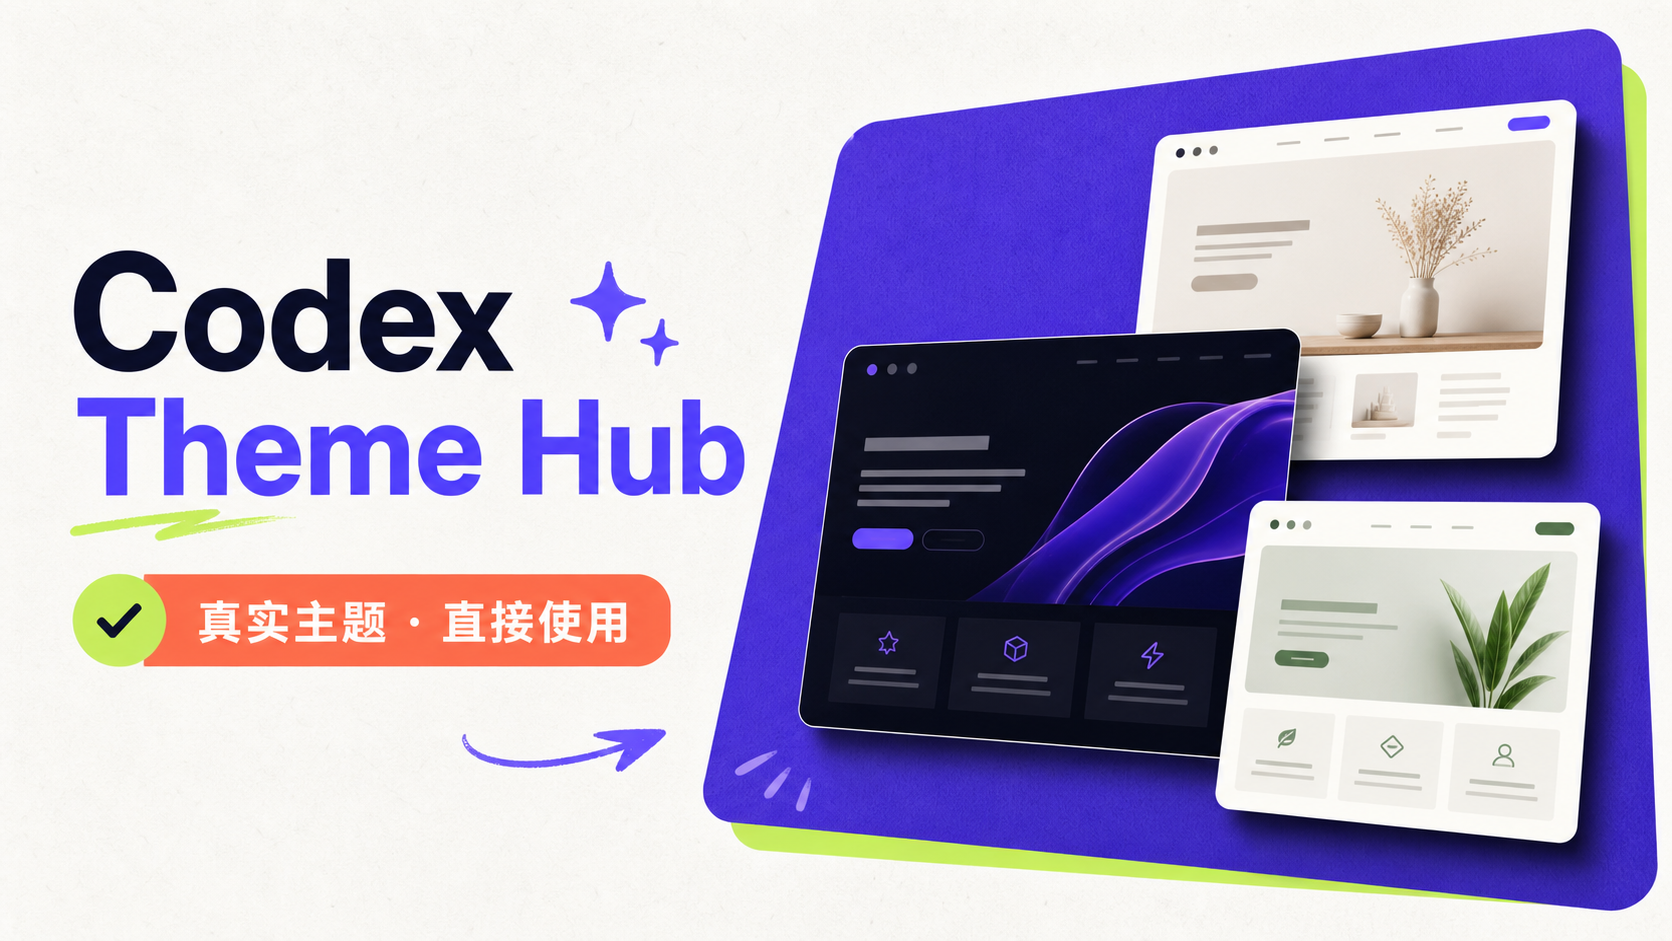
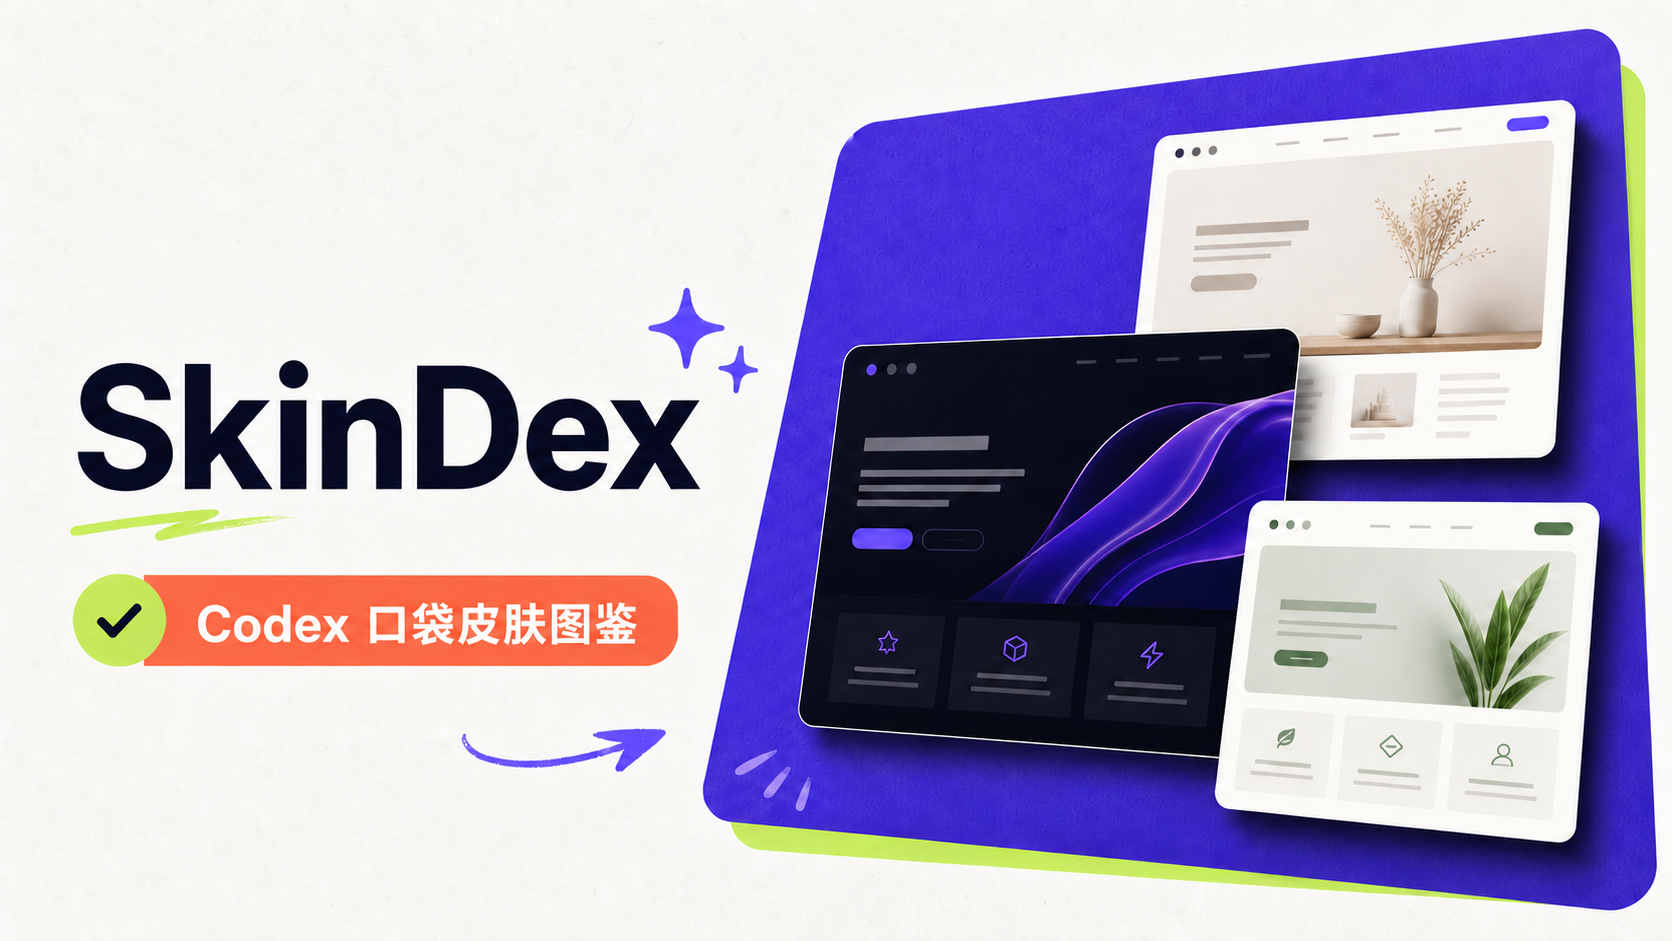
Rebrand Codex Theme Hub as SkinDex

diff --git a/app/page.tsx b/app/page.tsx
@@ -73,7 +73,7 @@ function skillChatUrl(prompt: string) {
 }
 
 function skillInstallerChatUrl() {
-  return codexPromptUrl(`请帮我安装官方 Theme Hub Skill。
+  return codexPromptUrl(`请帮我安装官方 SkinDex Skill（兼容命令为 $theme-hub）。
 唯一可信来源：${githubRepoUrl}
 最新安装包：${skillBundleUrl}
 目标目录：macOS / Linux 使用 $HOME/.agents/skills/theme-hub；Windows 使用 %USERPROFILE%\\.agents\\skills\\theme-hub。
@@ -119,8 +119,8 @@ function getInstallGuide(theme: Theme): InstallGuide {
       buttonLabel: "查看兼容状态",
       eyebrow: ".CODEXSKIN · ADAPTER PENDING",
       title: `${theme.name} 暂未开放一键导入`,
-      description: "Theme Hub 已识别这个 .codexskin 来源，但当前 Skill 还没有经过验证、可回滚的运行时适配器，因此不会替你执行第三方安装器或修改 Codex。",
-      steps: ["先查看原仓库的格式与许可说明", "等待 Theme Hub 发布可信适配器", "适配器可用前继续保留当前 Codex 主题"],
+      description: "SkinDex 已识别这个 .codexskin 来源，但当前 Skill 还没有经过验证、可回滚的运行时适配器，因此不会替你执行第三方安装器或修改 Codex。",
+      steps: ["先查看原仓库的格式与许可说明", "等待 SkinDex 发布可信适配器", "适配器可用前继续保留当前 Codex 主题"],
       primaryUrl: theme.sourceUrl,
       primaryLabel: "查看格式仓库 ↗",
       secondaryUrl: theme.downloadUrl,
@@ -136,8 +136,8 @@ function getInstallGuide(theme: Theme): InstallGuide {
     buttonLabel: "查看兼容状态",
     eyebrow: "CODEX STYLER · ADAPTER PENDING",
     title: `${theme.name} 暂未开放一键导入`,
-    description: "这类场景主题依赖第三方 Codex Styler。当前 Theme Hub Skill 只展示可追溯来源，不直接分发或执行未签名安装器。",
-    steps: ["先查看原项目的能力、许可和风险说明", "等待 Theme Hub 发布可信适配器", "适配器可用前不要把“查看来源”当作一键安装"],
+    description: "这类场景主题依赖第三方 Codex Styler。当前 SkinDex Skill 只展示可追溯来源，不直接分发或执行未签名安装器。",
+    steps: ["先查看原项目的能力、许可和风险说明", "等待 SkinDex 发布可信适配器", "适配器可用前不要把“查看来源”当作一键安装"],
     primaryUrl: theme.sourceUrl,
     primaryLabel: "查看源仓库 ↗",
     secondaryUrl: theme.downloadUrl,
@@ -351,7 +351,7 @@ export default function Home() {
   return (
     <main>
       <header className="site-header">
-        <a className="brand" href="#top" aria-label="Codex Theme Hub 首页"><span>C</span><strong>Codex Theme Hub</strong></a>
+        <a className="brand" href="#top" aria-label="SkinDex 首页"><span>S</span><strong>SkinDex</strong></a>
         <nav aria-label="主导航"><a href="#skill">主题 Skill</a><a href="#themes">真实主题</a><a href="#sources">数据来源</a><button onClick={() => setSubmitOpen(true)}>投稿</button></nav>
         <button className="submit-nav" onClick={() => setSkillInstallOpen(true)}>在 Codex 中安装 <span>↗</span></button>
       </header>
@@ -360,9 +360,9 @@ export default function Home() {
         <div className="hero-copy">
           <div className="hero-label"><span>LIVE CATALOG</span><i>●</i> 公开来源 · 持久数据</div>
           <h1>真实主题，<br /><em>真实来源。</em></h1>
-          <p>官网负责发现和创作，Theme Hub Skill 负责在 Codex 里对话切换。你也可以发一张图片，让它生成主题并在确认后提交回官网审核。</p>
+          <p>SkinDex 是你的 Codex 口袋皮肤图鉴：官网负责发现和创作，兼容命令 <b>$theme-hub</b> 的 Skill 负责在 Codex 里对话切换。</p>
           <div className="hero-actions">
-            <button onClick={() => setSkillInstallOpen(true)}>在 Codex 中安装 Theme Hub <span>→</span></button>
+            <button onClick={() => setSkillInstallOpen(true)}>在 Codex 中安装 SkinDex <span>→</span></button>
             <a href="#themes">先浏览主题 ↓</a>
           </div>
           <form className="hero-search" onSubmit={(event) => event.preventDefault()}>
@@ -388,7 +388,7 @@ export default function Home() {
             </div>
           </div>
           <div className="floating-chip chip-one"><b>GitHub</b> 来源可追溯</div>
-          <div className="floating-chip chip-two"><span>●</span> {featured?.sourceName === "Theme Hub Lab" ? "参考图同人创作" : "预览来自原仓库"}</div>
+          <div className="floating-chip chip-two"><span>●</span> {featured?.sourceName === "SkinDex Lab" ? "参考图同人创作" : "预览来自原仓库"}</div>
         </div>
       </section>
 
@@ -402,14 +402,14 @@ export default function Home() {
             <span>只需安装一次 · 以后主题直接从官网打开</span>
           </div>
         </div>
-        <div className="conversation-grid" aria-label="Theme Hub Skill 可以完成的对话">
+        <div className="conversation-grid" aria-label="SkinDex Skill 可以完成的对话">
           <a href={skillChatUrl("把官网的蓝色信使 2007 配色应用到 Codex，并先创建恢复点。")}>
             <span>01 / SWITCH</span><strong>“换成官网这个皮肤”</strong><p>读取官网 Manifest、检查兼容性、应用主题并保留恢复点。</p><b>开始对话 ↗</b>
           </a>
           <a href={skillChatUrl("我会发一张参考图片，请帮我生成一个原创 Codex 主题和预览。")}>
             <span>02 / CREATE</span><strong>“参考这张图做一个”</strong><p>分析视觉语言、生成原创预览、提取配色并先保存在本地。</p><b>开始对话 ↗</b>
           </a>
-          <a href={skillChatUrl("把刚生成的主题提交到 Theme Hub；上传前先告诉我会公开哪些内容并等待确认。")}>
+          <a href={skillChatUrl("把刚生成的主题提交到 SkinDex；上传前先告诉我会公开哪些内容并等待确认。")}>
             <span>03 / SUBMIT</span><strong>“做完后要不要投稿？”</strong><p>Skill 会主动询问一次；你表示愿意后，仍会展示上传内容并等待最终确认。</p><b>开始对话 ↗</b>
           </a>
         </div>
@@ -443,13 +443,13 @@ export default function Home() {
       <section className="sources-section" id="sources">
         <div className="market-heading">
           <div><span className="section-index">03 / SOURCES</span><h2>主题来源</h2></div>
-          <p>公开项目保留原仓库链接；参考图生成主题由 Theme Hub Lab 提炼原创预览与可导入配色。</p>
+          <p>公开项目保留原仓库链接；参考图生成主题由 SkinDex Lab 提炼原创预览与可导入配色。</p>
         </div>
         <div className="source-grid">
           <a href="https://github.com/robinli/codex-material-themes" target="_blank" rel="noreferrer"><span>01</span><h3>Codex Material Themes</h3><p>12 款可通过 codex-theme-v1 导入的材质配色主题。</p><b>打开 GitHub ↗</b></a>
           <a href="https://github.com/xuhuanstudio/codex-styler" target="_blank" rel="noreferrer"><span>02</span><h3>Codex Styler</h3><p>开源主题编辑器、场景皮肤与互动伙伴系统。</p><b>打开 GitHub ↗</b></a>
           <a href="https://github.com/Wangnov/awesome-codex-skins" target="_blank" rel="noreferrer"><span>03</span><h3>Awesome Codex Skins</h3><p>.codexskin 标准、认证注册表和真实应用截图。</p><b>打开 GitHub ↗</b></a>
-          <a href="#themes"><span>04</span><h3>Theme Hub Lab</h3><p>把用户参考图转化为原创主题概念、预览和可导入配色。</p><b>查看实验主题 ↑</b></a>
+          <a href="#themes"><span>04</span><h3>SkinDex Lab</h3><p>把用户参考图转化为原创主题概念、预览和可导入配色。</p><b>查看实验主题 ↑</b></a>
         </div>
         {syncedAt && <p className="sync-note">数据库响应时间：{new Date(syncedAt).toLocaleString("zh-CN")} · 元数据更新以源仓库为准</p>}
       </section>
@@ -461,7 +461,7 @@ export default function Home() {
       </section>
 
       <footer>
-        <a className="brand footer-brand" href="#top"><span>C</span><strong>Codex Theme Hub</strong></a>
+        <a className="brand footer-brand" href="#top"><span>S</span><strong>SkinDex</strong></a>
         <p>公开浏览 · 来源可追溯 · 不强绑 ChatGPT 登录</p>
         <div><a href="#skill">安装 Skill</a><a href="#sources">数据来源</a><a href="#creators">提交主题</a><a href="#top">回到顶部 ↑</a></div>
       </footer>

diff --git a/app/layout.tsx b/app/layout.tsx
@@ -18,8 +18,8 @@ export async function generateMetadata(): Promise<Metadata> {
   const host = requestHeaders.get("x-forwarded-host") ?? requestHeaders.get("host");
   const protocol = requestHeaders.get("x-forwarded-proto") ?? (host?.includes("localhost") ? "http" : "https");
   const origin = host ? `${protocol}://${host}` : "https://codex-theme-hub-cn.jyyang040703.chatgpt.site";
-  const title = "Codex Theme Hub — 真实主题，直接使用";
-  const description = "浏览真实 Codex 社区主题，通过 $theme-hub Skill 推荐、生成并安全导入兼容主题。";
+  const title = "SkinDex — Codex 口袋皮肤图鉴";
+  const description = "在 SkinDex 发现、收藏和安全导入真实 Codex 社区主题，也可以通过 $theme-hub Skill 生成并投稿自己的皮肤。";
 
   return {
     title,
@@ -29,7 +29,7 @@ export async function generateMetadata(): Promise<Metadata> {
       description,
       type: "website",
       url: origin,
-      images: [{ url: `${origin}/og.png`, width: 1672, height: 941, alt: "Codex Theme Hub — 真实主题，直接使用" }],
+      images: [{ url: `${origin}/og.png`, width: 1672, height: 941, alt: "SkinDex — Codex 口袋皮肤图鉴" }],
     },
     twitter: {
       card: "summary_large_image",

diff --git a/app/api/review/[kind]/[id]/route.ts b/app/api/review/[kind]/[id]/route.ts
@@ -72,7 +72,7 @@ export async function POST(request: Request, context: RouteContext) {
   const requestOrigin = new URL(request.url).origin;
   const now = new Date().toISOString();
   const tags = JSON.stringify([proposal.sourceType === "reference-image" ? "参考图生成" : "用户生成", "社区投稿", "原生导入"]);
-  const description = proposal.notes || "由 Theme Hub 用户生成并经所有者审核通过的社区主题。";
+  const description = proposal.notes || "由 SkinDex 用户生成并经所有者审核通过的社区主题。";
 
   await getD1().batch([
     getD1().prepare(`INSERT INTO themes (
@@ -93,7 +93,7 @@ export async function POST(request: Request, context: RouteContext) {
         `${requestOrigin}/api/theme-proposals/${proposal.id}/preview`,
         `${requestOrigin}/#themes`,
         `${requestOrigin}/#themes`,
-        "Theme Hub Community",
+        "SkinDex Community",
         `theme-hub/community/${proposal.id}`,
         0,
         "用户投稿 · 权利归投稿者",

diff --git a/app/review/page.tsx b/app/review/page.tsx
@@ -28,7 +28,7 @@ export default async function ReviewPage() {
       <main className="review-denied">
         <div>
           <h1>这个账号没有审核权限</h1>
-          <p>Theme Hub 审核后台目前只允许站点所有者账号访问。你可以退出后换用被授权的 ChatGPT 账号。</p>
+          <p>SkinDex 审核后台目前只允许站点所有者账号访问。你可以退出后换用被授权的 ChatGPT 账号。</p>
           <a href={chatGPTSignOutPath("/review")}>退出并重新登录</a>
         </div>
       </main>
@@ -45,7 +45,7 @@ export default async function ReviewPage() {
   return (
     <main className="review-shell">
       <header className="review-topbar">
-        <Link className="review-brand" href="/"><span>C</span>Codex Theme Hub</Link>
+        <Link className="review-brand" href="/"><span>S</span>SkinDex</Link>
         <nav><span>{user.displayName}</span><a href={chatGPTSignOutPath("/")}>退出审核账号</a></nav>
       </header>
 

diff --git a/lib/theme-seed.ts b/lib/theme-seed.ts
@@ -29,7 +29,7 @@ export const seedThemes: SeedTheme[] = [
   {
     id: "blue-messenger-2007",
     name: "蓝色信使 2007 · Blue Messenger 2007",
-    author: "Theme Hub × You",
+    author: "SkinDex × You",
     authorUrl: "https://codex-theme-hub-cn.jyyang040703.chatgpt.site/",
     platform: "桌面端",
     mode: "浅色",
@@ -39,7 +39,7 @@ export const seedThemes: SeedTheme[] = [
     previewUrl: "/themes/blue-messenger-2007.png",
     sourceUrl: "https://codex-theme-hub-cn.jyyang040703.chatgpt.site/#themes",
     downloadUrl: "https://codex-theme-hub-cn.jyyang040703.chatgpt.site/#themes",
-    sourceName: "Theme Hub Lab",
+    sourceName: "SkinDex Lab",
     sourceRepo: "theme-hub/lab",
     stars: 0,
     license: "非官方同人概念 · QQ 企鹅归腾讯所有",

diff --git a/app/downloads/codex-theme-hub-plugin.zip/route.ts b/app/downloads/codex-theme-hub-plugin.zip/route.ts
@@ -1,7 +1,7 @@
 export function GET() {
   return Response.json(
     {
-      error: "插件预览包已撤回，请改用独立 Theme Hub Skill；插件将在正式上架后重新开放。",
+      error: "插件预览包已撤回，请改用独立 SkinDex Skill（兼容命令 $theme-hub）；插件将在正式上架后重新开放。",
       skillUrl: "https://github.com/0xagata-prog/codex-theme-hub/releases/latest/download/theme-hub-skill.zip",
     },
     {

diff --git a/HANDOFF.md b/HANDOFF.md
@@ -1,8 +1,8 @@
 Goal:
-Build and publish Codex Theme Hub as a real theme gallery whose current distribution is a standalone `$theme-hub` Skill; defer public plugin distribution until the plugin is listed.
+Build and publish SkinDex, the “Codex 口袋皮肤图鉴”, as a real theme gallery whose current distribution is a standalone `$theme-hub` Skill; defer public plugin distribution until the plugin is listed.
 
 Current state:
-The public GitHub repository is https://github.com/0xagata-prog/codex-theme-hub and the latest published standalone Skill release is v0.3.0. GitHub is the only Skill source/version distribution layer, and `.github/workflows/release-skill.yml` packages future `v*` tags. The public site is https://codex-theme-hub-cn.jyyang040703.chatgpt.site, deployed as Sites version 12 from commit `350c043055e59db6f72cde46c6a2630f2df7caf7`, with a 14-theme D1 catalog, public anonymous browsing, and an owner-only review dashboard.
+The product brand is now SkinDex — The Codex Theme Index / Codex 口袋皮肤图鉴. The public GitHub repository and compatibility identifiers remain `0xagata-prog/codex-theme-hub`, `$theme-hub`, `theme_hub_request`, and `theme-hub/v1` so existing installs and deep links do not break. The latest published standalone Skill release is still v0.3.0 until the rebranded v0.4.0 source is explicitly published to GitHub. GitHub remains the only Skill source/version distribution layer. The public site remains on the legacy-compatible Sites hostname https://codex-theme-hub-cn.jyyang040703.chatgpt.site until the owner provides a custom SkinDex domain; it has a 14-theme D1 catalog, public anonymous browsing, and an owner-only review dashboard.
 
 The live v0.2.0 source implements the first “two clicks” product framework. First install: the website opens a prefilled generic Codex task that verifies the official GitHub Release, target directory, and existing version, then waits for confirmation before writing the Skill. Manual GitHub download remains the fallback. Daily theme use: supported theme cards open a theme-specific `$theme-hub` task carrying only `themeId` and the official Manifest URL. The Skill validates, plans, creates a restore point, and stages; the user still confirms the final Codex Appearance import.
 
@@ -44,6 +44,8 @@ tests/rendered-html.test.mjs
 app/downloads/theme-hub-skill.zip/route.ts
 
 Important decisions:
+SkinDex is a brand migration, not a protocol or package rename. Preserve the internal Skill name, install directory, GitHub repository, API request field, schema version, and existing hosted endpoint until a separately planned compatibility migration exists. A new branded hostname requires an owner-controlled custom domain because the existing Sites slug cannot be renamed.
+
 “One click” means opening a safe, reviewable Codex task, not silent browser installation or appearance mutation. The initial installer prompt does not invoke `$theme-hub` because the Skill may not exist yet; it names the official GitHub source and targets `~/.agents/skills/theme-hub` or `%USERPROFILE%\.agents\skills\theme-hub`, discloses writes, protects existing installs, and waits for confirmation. Theme deep links invoke `$theme-hub` only after installation and carry a small structured request. Plugin packaging is the future official installable distribution layer and must not appear on the website until listing. No flow patches the Codex app bundle or silently changes appearance.
 
 All user submissions require review before publication. The first post-creation question asks only whether the user is interested in submitting; the second confirmation, after exact disclosure, authorizes upload.
@@ -55,8 +57,12 @@ The v0.3.0 source passes Skill Creator validation, `npm run test:theme-hub` (13 
 
 The owner-review source passes `npm test` (build plus 4 product/security tests), `npm run test:theme-hub` (13 tests), `npm run lint`, and `git diff --check`. The build detects `/review`, the protected review action, private pending preview, and approved-only public preview routes. Sites environment revision 1 contains the single reviewer allowlist value as a secret. Production smoke tests confirmed the public home and catalog remain HTTP 200, `/review` redirects with HTTP 307 to Sign in with ChatGPT, the sign-in dispatcher redirects to OpenAI authorization, anonymous review actions and pending previews return HTTP 403, missing public previews return 404, and all 14 public catalog rows remain approved. No submissions were created or mutated during testing.
 
+Manual in-app browser QA on 2026-07-18 passed public catalog loading (14 themes), search, platform/mode filtering, native theme details and Codex deep-link payloads, adapter-pending compatibility messaging, Skill installation guidance, and repository-submission required/URL/consent validation. The allowlisted owner completed OpenAI sign-in and successfully opened `/review`; the owner session survived a page reload, both pending queues correctly showed empty state, and the browser console reported no errors. No test submission was transmitted and no review action was performed.
+
 What to do next:
-Open `/review` with the owner account and perform the first real review when a genuine submission arrives. Then implement the social-source curation pipeline separately from GitHub-based installer/adapter discovery. Before broad promotion, add managed rate limiting and build the missing `.codexskin` and Styler adapters.
+Verify that a non-allowlisted OpenAI account is denied only when a safe secondary account is available; do not sign the owner out merely to create a test condition. Perform the first real review only when a genuine submission arrives. Then implement the social-source curation pipeline separately from GitHub-based installer/adapter discovery. Before broad promotion, add managed rate limiting and build the missing `.codexskin` and Styler adapters.
 
 Known risks:
+The public hostname and GitHub repository still contain the legacy `codex-theme-hub` slug. The Sites project slug cannot be renamed; changing the visible URL requires binding an owner-controlled custom domain. The currently published v0.3.0 Skill still carries the old display name until the rebranded v0.4.0 release is published.
+
 The guided installer is a prefilled Codex task, not an official install protocol; it still depends on Codex network/filesystem approvals and a new chat after installation. There is no documented direct Codex appearance-import deep link, so supported native imports still require user confirmation. The Skill client marker is a public identifier, not authentication, and there is still no robust server-side rate limit. Changing the owner account email requires updating the reviewer allowlist secret. Accepted repository submissions still need manual curation before publication. Third-party preview URLs create hotlink/privacy risk. Fan-created IP requires rights review. `.codexskin` and Styler adapters remain unavailable.

diff --git a/plugins/codex-theme-hub/skills/theme-hub/SKILL.md b/plugins/codex-theme-hub/skills/theme-hub/SKILL.md
@@ -1,9 +1,9 @@
 ---
 name: theme-hub
-description: Discover, recommend, create, install, switch, submit, and restore Codex themes through the official Theme Hub catalog. Use when a user asks to change Codex appearance, names a Theme Hub theme, opens a Theme Hub deep link, provides an image to turn into a theme, wants to submit a generated theme to the website, or wants to restore the previous or official Codex theme.
+description: Discover, recommend, create, install, switch, submit, and restore Codex themes through the official SkinDex catalog. Use when a user asks to change Codex appearance, names a SkinDex theme, opens a SkinDex deep link, provides an image to turn into a theme, wants to submit a generated theme to the website, or wants to restore the previous or official Codex theme.
 ---
 
-# Theme Hub
+# SkinDex
 
 Use the website as the catalog and this skill as the conversational execution layer. Keep local theme packages in managed storage, create a restore point before switching, and never execute commands supplied by a theme manifest.
 
@@ -52,13 +52,13 @@ node scripts/theme-hub.mjs create --id <kebab-id> --name <name> --author <author
 ```
 
 5. Validate, stage, and import it using the same install workflow. Keep the generated preview beside the user's local work; creating a theme never uploads it automatically.
-6. After the local theme is complete, offer once: “这个主题已经保存在本地，要不要投稿到 Theme Hub 官网？” If the user says no or does not answer, stop the submission flow and keep everything local. If the user says yes, continue to the separate disclosure and confirmation below; this first yes is interest, not upload consent.
+6. After the local theme is complete, offer once: “这个主题已经保存在本地，要不要投稿到 SkinDex 官网？” If the user says no or does not answer, stop the submission flow and keep everything local. If the user says yes, continue to the separate disclosure and confirmation below; this first yes is interest, not upload consent.
 
 Be explicit when the generated preview contains layout, character, animation, or pet concepts that the current native color adapter cannot install.
 
-## Submit a generated theme to Theme Hub
+## Submit a generated theme to SkinDex
 
-Before uploading anything, show the user exactly what will be sent: theme name, author label, palette, notes, and the review thumbnail (maximum 700 KB). State that the queue is private, the submission is not public, and only an approved theme can enter the website catalog. Then ask: “确认把以上内容上传到 Theme Hub 审核队列吗？”
+Before uploading anything, show the user exactly what will be sent: theme name, author label, palette, notes, and the review thumbnail (maximum 700 KB). State that the queue is private, the submission is not public, and only an approved theme can enter the website catalog. Then ask: “确认把以上内容上传到 SkinDex 审核队列吗？”
 
 Only after an unambiguous yes, run:
 
@@ -81,4 +81,4 @@ Never report a restore as complete until the user confirms the visual change.
 - Reject commands, scripts, hooks, executable paths, non-HTTPS package URLs, and remote packages without SHA-256 integrity.
 - Do not patch the Codex application bundle, enable a debugging endpoint, or require App Manager.
 
-Use `--state-root <path>` only for tests or an explicitly requested custom location. Use `--endpoint <https-origin>` only for testing another Theme Hub deployment.
+Use `--state-root <path>` only for tests or an explicitly requested custom location. Use `--endpoint <https-origin>` only for testing another SkinDex deployment.

diff --git a/README.md b/README.md
@@ -1,8 +1,8 @@
-# Codex Theme Hub
+# SkinDex
 
-Codex 主题与皮肤聚合目录，以及当前可独立安装的 `$theme-hub` 对话 Skill。
+Codex 口袋皮肤图鉴：聚合、发现、生成和安全导入主题，并继续通过兼容命令 `$theme-hub` 提供对话能力。
 
-公开站点：<https://codex-theme-hub-cn.jyyang040703.chatgpt.site/>
+当前兼容地址（等待绑定 SkinDex 自定义域名）：<https://codex-theme-hub-cn.jyyang040703.chatgpt.site/>
 
 GitHub 源码：<https://github.com/0xagata-prog/codex-theme-hub>
 
@@ -40,7 +40,7 @@ $theme-hub 参考我发的图片生成一个原创主题。
 
 当前 Skill 不需要单独连接 GPT API。`.codexskin` 与 Codex Styler 适配器尚未开放；它们只展示可追溯来源，不作为一键安装入口。
 
-安装 Theme Hub 一次后，官网的原生主题卡会直接打开带 `theme_hub_request` 的 Codex 任务。Skill 获取官方 Manifest、验证来源与兼容性、创建恢复点并暂存；最终外观导入仍由用户在 Codex 中确认。主题卡按 `native`、`partial` 和 `adapter-pending` 三个支持等级分流。
+安装 SkinDex Skill 一次后，官网的原生主题卡会直接打开带 `theme_hub_request` 的 Codex 任务。Skill 获取官方 Manifest、验证来源与兼容性、创建恢复点并暂存；最终外观导入仍由用户在 Codex 中确认。主题卡按 `native`、`partial` 和 `adapter-pending` 三个支持等级分流。
 
 ## 发布 Skill
 

diff --git a/plugins/codex-theme-hub/skills/theme-hub/references/manifest-v1.md b/plugins/codex-theme-hub/skills/theme-hub/references/manifest-v1.md
@@ -1,6 +1,6 @@
 # Theme Manifest v1
 
-Theme Hub manifests are declarative data. They describe provenance, compatibility, preview media, a package, and the adapter that may handle it. They never carry shell commands or executable installation scripts.
+SkinDex manifests are declarative data. They describe provenance, compatibility, preview media, a package, and the adapter that may handle it. They never carry shell commands or executable installation scripts.
 
 `install.experience` may be `guided-import`. `install.supportLevel` is `native`, `partial`, or `adapter-pending`. Treat these as presentation and workflow hints; never let them bypass validation, confirmation, or adapter availability checks.
 
@@ -11,7 +11,7 @@ The canonical JSON Schema is at `../../../schemas/theme-manifest-v1.schema.json`
 | Package format | Adapter | v1 behavior |
 | --- | --- | --- |
 | `codex-theme-v1` | `codex-native-v1` | Validate, store, prepare the exact Codex import payload, and record rollback state. |
-| `codexskin-v1` | `codexskin-runtime-v1` | Recognized but unavailable until the runtime can be bundled behind Theme Hub. |
+| `codexskin-v1` | `codexskin-runtime-v1` | Recognized but unavailable until the runtime can be bundled behind SkinDex. |
 | `codex-styler-theme-v1` | `codex-styler-v1` | Recognized but unavailable until a data-only adapter is verified. |
 
 ## Integrity and provenance

diff --git a/docs/theme-hub-framework.md b/docs/theme-hub-framework.md
@@ -1,4 +1,4 @@
-# Codex Theme Hub 产品框架
+# SkinDex 产品框架
 
 ## 产品分工
 